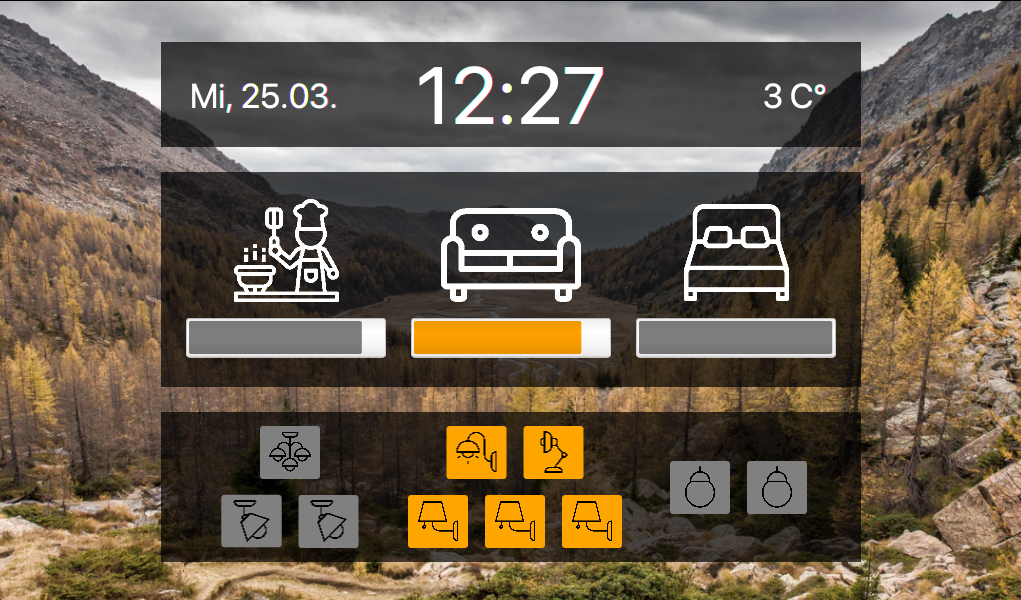
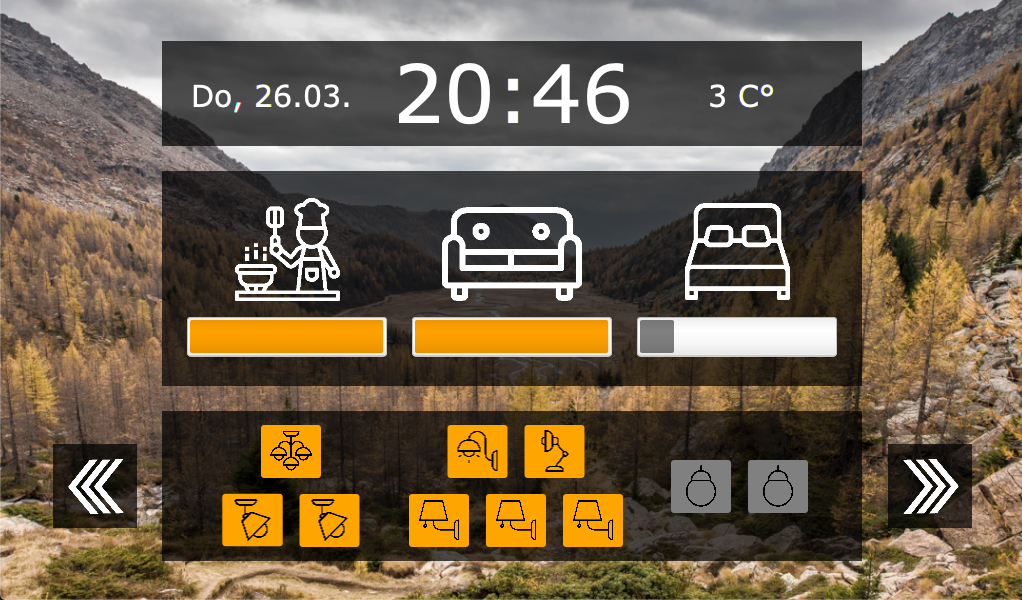
Improve readme

diff --git a/README.md b/README.md
@@ -12,6 +12,8 @@ Author: [Maximilian Bundscherer](https://bundscherer-online.de)
 
 ![](./resources/screenshot.png)
 
+![](./resources/screenshot2.png)
+
 ## Overview
 
 - Control your [philips hue](https://www2.meethue.com/) light bulbs
